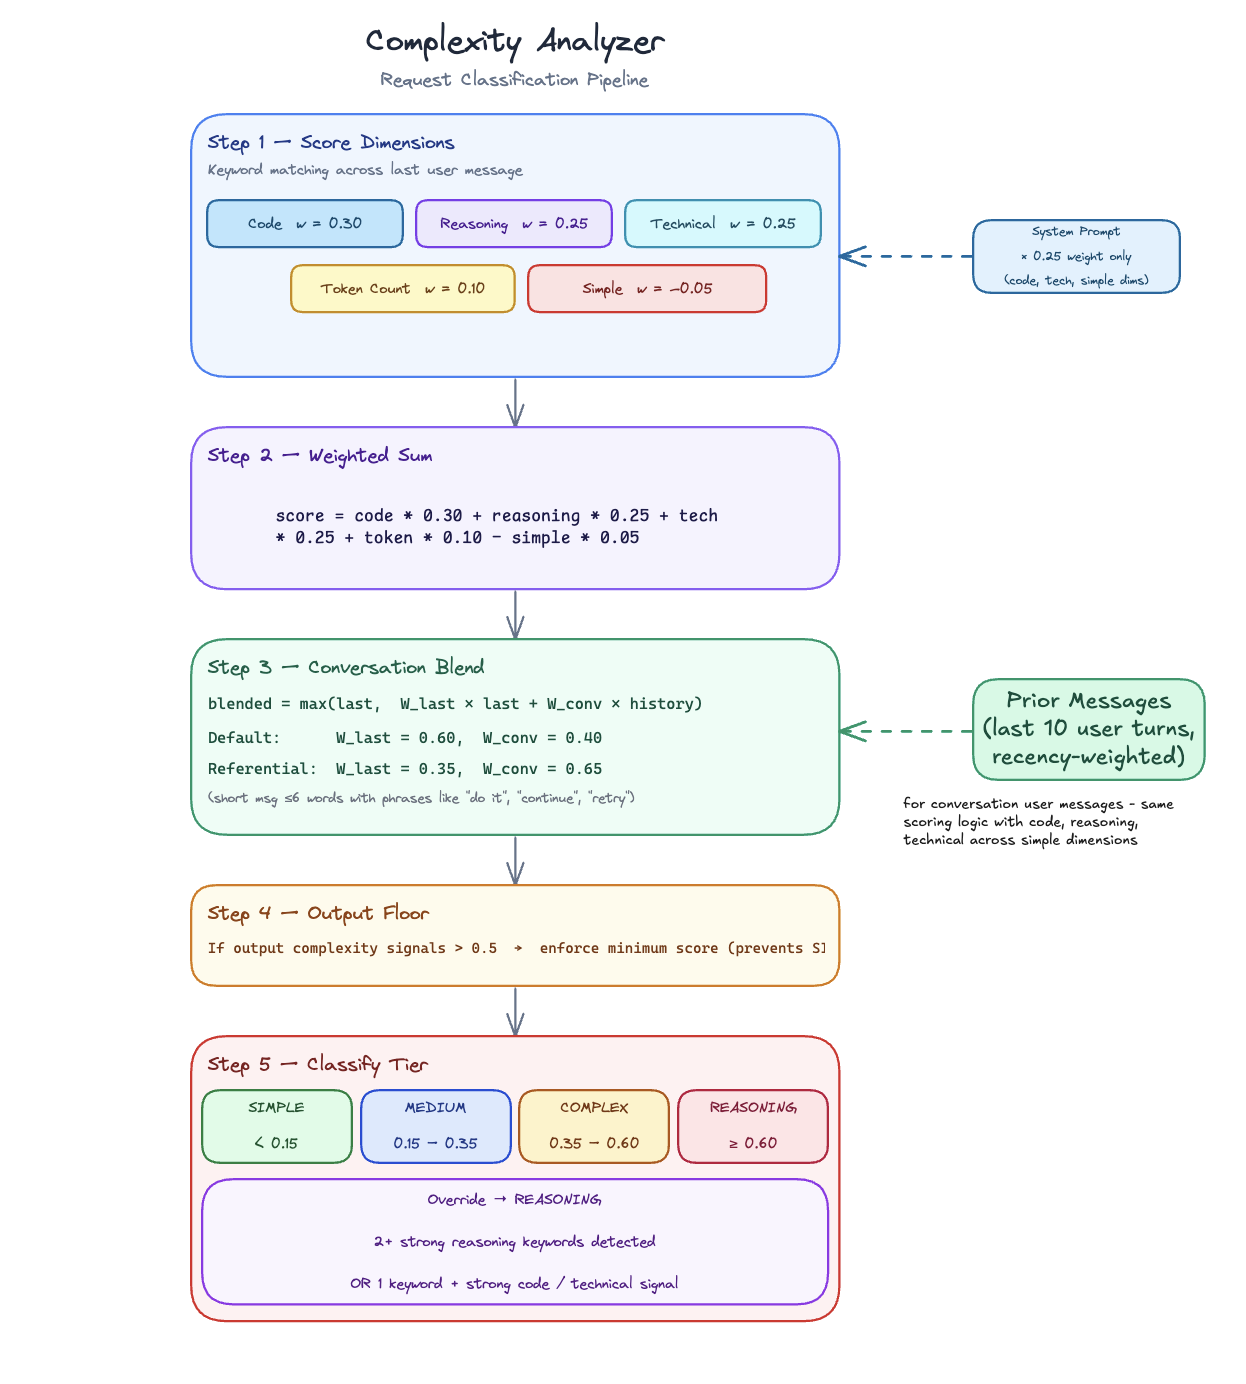
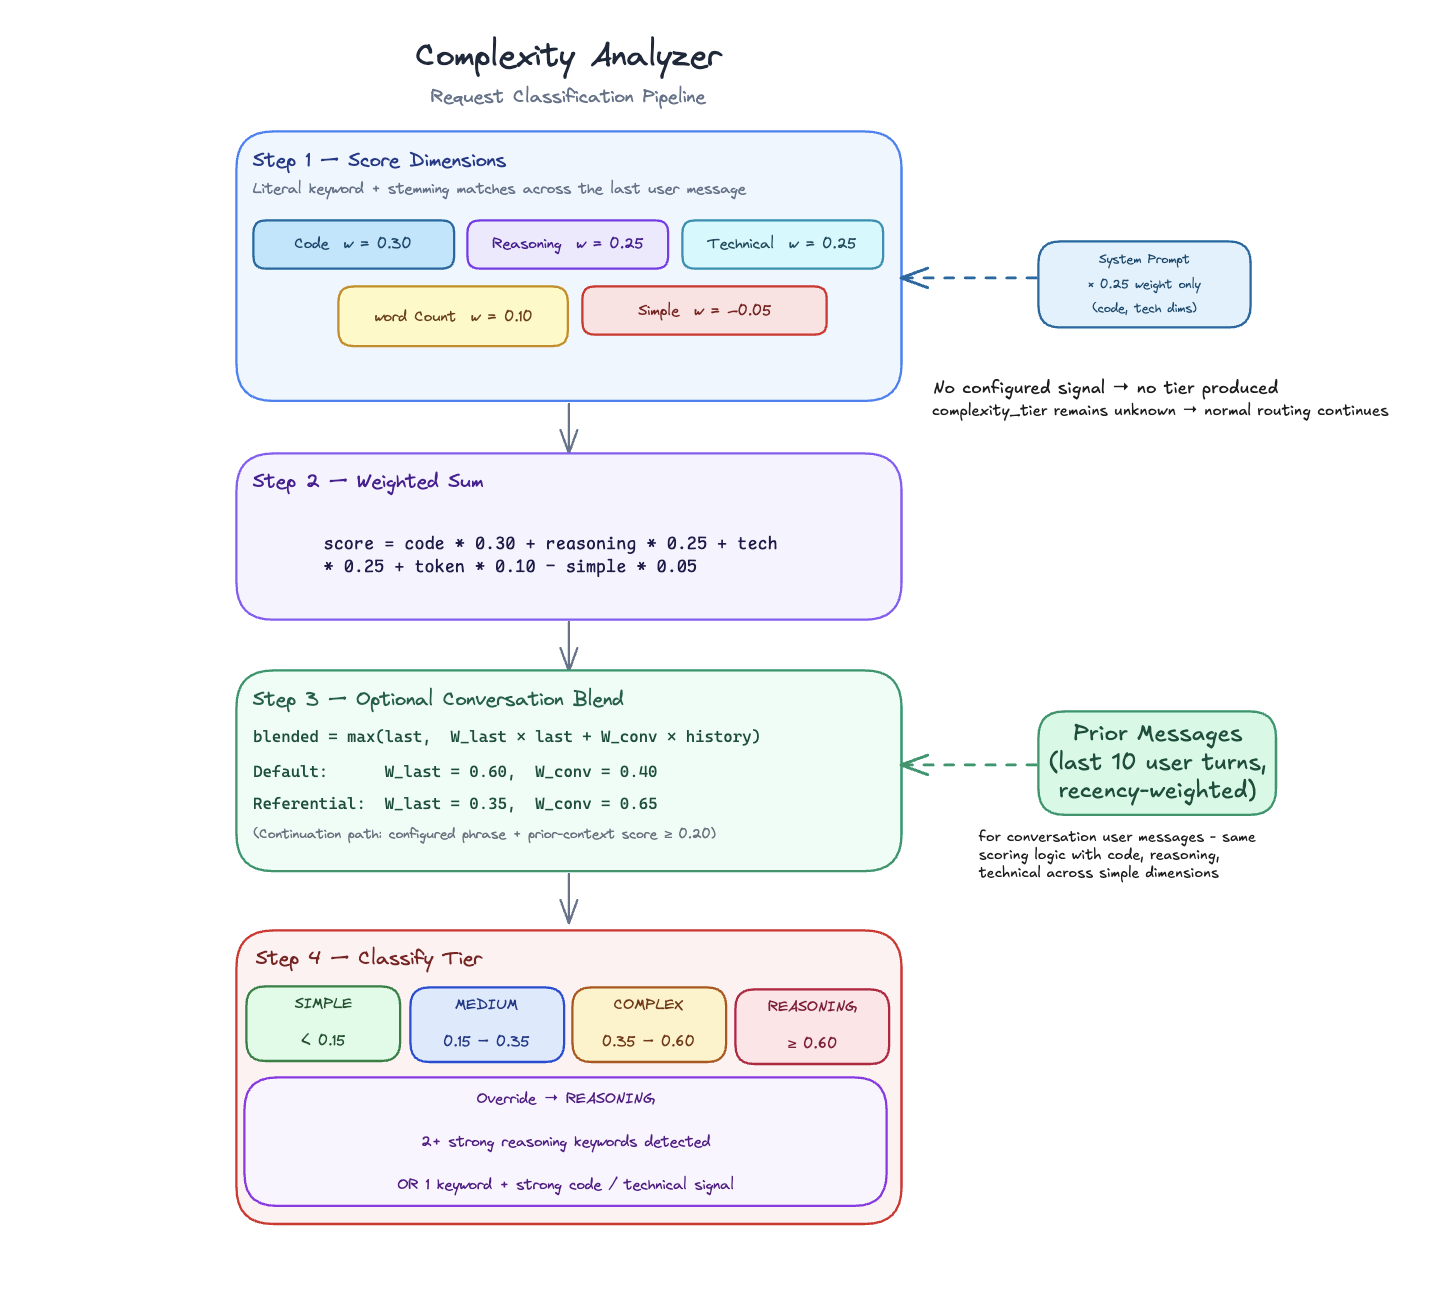
version bump fixes (#5199)
* minor docs changes complexity router (#5172)

## Summary

Briefly explain the purpose of this PR and the problem it solves.

## Changes

- What was changed and why
- Any notable design decisions or trade-offs

## Type of change

- [ ] Bug fix
- [ ] Feature
- [ ] Refactor
- [x] Documentation
- [ ] Chore/CI

## Affected areas

- [ ] Core (Go)
- [ ] Transports (HTTP)
- [ ] Providers/Integrations
- [ ] Plugins
- [ ] UI (React)
- [x] Docs

## How to test

Describe the steps to validate this change. Include commands and expected outcomes.

```sh
# Core/Transports
go version
go test ./...

# UI
cd ui
pnpm i || npm i
pnpm test || npm test
pnpm build || npm run build
```

If adding new configs or environment variables, document them here.

## Screenshots/Recordings

If UI changes, add before/after screenshots or short clips.

## Breaking changes

- [ ] Yes
- [ ] No

If yes, describe impact and migration instructions.

## Related issues

Link related issues and discussions. Example: Closes #123

## Security considerations

Note any security implications (auth, secrets, PII, sandboxing, etc.).

## Checklist

- [ ] I read `docs/contributing/README.md` and followed the guidelines
- [ ] I added/updated tests where appropriate
- [ ] I updated documentation where needed
- [ ] I verified builds succeed (Go and UI)
- [ ] I verified the CI pipeline passes locally if applicable

* patched version bumps

* changelog fixes

---------

diff --git a/transports/changelog.md b/transports/changelog.md
@@ -1,0 +1,87 @@
+## ✨ Features
+
+- **Sarvam AI Provider** - Added Sarvam AI as a first-class provider with chat, text-to-speech, and speech-to-text support (thanks [@Purvi09](https://github.com/Purvi09)!)
+- **ElevenLabs Sound Effects** - Added text-to-sound generation support via `/v1/sound-generation` (thanks [@SecretSun](https://github.com/SecretSun)!)
+- **Bedrock Project Scoping** - Added optional `project_id` to Bedrock and Bedrock Mantle key configs with per-alias overrides for Bedrock, Bedrock Mantle, and Vertex, plus UI support
+- **Trace Redaction** - Phase-scoped redaction and revealing, transient redaction data field for guardrails, and trace content redaction before connector export
+- **Durable Background Jobs** - New `sidekiq` background-job table, store methods, and runner with recovery and reaper; cost recalculation migrated to a durable, resumable job with polling instead of SSE
+- **Audit Log Object Storage** - S3/GCS object storage config schema for audit log archival
+- **Alerting Configuration** - Alerting schema in `config.schema.json` with declarative channels and CEL-based rules, Helm chart support, and enterprise fallback pages
+- **Model Catalog Pricing** - Added pricing data to the model catalog (thanks [@johnbrett](https://github.com/johnbrett)!)
+- **Canonical Model Names** - Dashboard model rankings now show canonical model names instead of inference-profile IDs (thanks [@satyamkrishna](https://github.com/satyamkrishna)!)
+- **OAuth2 Hardening** - Allowlist for private-use redirect URI schemes (RFC 8252 §7.1) and a `shouldSweep` gate on the OAuth2 sweep worker
+- **Mirrored Schema Support** - `schema_url` / `BIFROST_SCHEMA_URL` for mirrored schema locations in isolated deployments
+- **Vertex Single-Region Config** - Enforce single-region configuration in Vertex key config
+- **Helm Chart Updates** - `bifrost.alerting`, audit-log object storage, `postgresql.external.port` string support, and `bifrost.mcp.toolGroups[*].id`
+
+## 🐞 Fixed
+
+- **Governance Rate-Limit Reset CPU** - Guards against invalid reset timeouts, parallelized resting-budget flows only when absolutely required, and fixed the calendar-based alignment qualifier
+- **Masked Key Persistence** - Never persist masked provider key previews to config storage (thanks [@eyeveil](https://github.com/eyeveil)!)
+- **OpenShift Arbitrary UIDs** - Build-time group-0 ownership with no runtime chown (thanks [@eyeveil](https://github.com/eyeveil)!)
+- **Passthrough Virtual Key Attribution** - Passthrough calls via the Azure `api-key` header now attribute to the virtual key (thanks [@eyeveil](https://github.com/eyeveil)!)
+- **Rerank for Custom Providers** - `/v1/rerank` now works with custom OpenAI-compatible providers (thanks [@eyeveil](https://github.com/eyeveil)!)
+- **Responses Stream Usage** - Persist stream usage when providers omit or reuse sequence numbers (thanks [@eyeveil](https://github.com/eyeveil)!)
+- **Wildcard allowed_models Repair** - Repair bare wildcard `allowed_models` rows that broke admin provider updates (thanks [@eyeveil](https://github.com/eyeveil)!)
+- **Streaming Error Panic** - Nil-safe tracing span lookup prevents panics on streaming errors (thanks [@eyeveil](https://github.com/eyeveil)!)
+- **Anthropic Tool ID Sanitization** - Sanitize `tool_use`/`tool_result` ids to Anthropic's charset (thanks [@Shaik-Sirajuddin](https://github.com/Shaik-Sirajuddin)!)
+- **Realtime Transcription Sessions** - Support GA transcription-type sessions in `POST /v1/realtime/client_secrets` (thanks [@Shaik-Sirajuddin](https://github.com/Shaik-Sirajuddin)!)
+- **Diarized Transcription** - Support `diarized_json` segments and ElevenLabs speaker passthrough (thanks [@Shaik-Sirajuddin](https://github.com/Shaik-Sirajuddin)!)
+- **Model Discovery** - Skip disabled keys when scheduling model-discovery fetches (thanks [@Shaik-Sirajuddin](https://github.com/Shaik-Sirajuddin)!)
+- **MCP Timeout Placeholder** - Show the real global default in the MCP tool execution timeout placeholder (thanks [@Shaik-Sirajuddin](https://github.com/Shaik-Sirajuddin)!)
+- **Redacted Thinking Round-Trip** - Round-trip Anthropic `redacted_thinking` blocks on the Responses surface (thanks [@fus3r](https://github.com/fus3r)!)
+- **Streaming Accumulation** - Preserve citation annotations and `finish_reason` in the accumulated streaming response (thanks [@fus3r](https://github.com/fus3r)!)
+- **Gemini Grounded Streaming** - Reset web-search flag when recycling pooled stream state so `web_search_call` items keep emitting (thanks [@fus3r](https://github.com/fus3r)!)
+- **Vertex gs:// Images** - Pass through `gs://` image URLs on Vertex Gemini
+- **Bedrock Truncation Signal** - Signal `max_output_tokens` truncation on the Responses API (thanks [@jeremym-tanium](https://github.com/jeremym-tanium)!)
+- **Bedrock Reasoning Config** - Preserve `reasoning_config` on cross-provider translation so fallbacks keep extended thinking (thanks [@Purvi09](https://github.com/Purvi09)!)
+- **Anthropic tool_search** - Forward and rebuild server-side `tool_search` on the Responses path (thanks [@ws4charlie](https://github.com/ws4charlie)!)
+- **OpenAI Responses Input** - Strip `role` from non-message input items (thanks [@nettee](https://github.com/nettee)!) and serialize compaction request `input` correctly (thanks [@mcclurmc](https://github.com/mcclurmc)!)
+- **additional_tools Support** - Added `additional_tools` message type support, preserving nested tool types on `/v1/responses`
+- **Plugin Stream Errors** - Emit structured plugin stream errors on integration routes (thanks [@jeffhos](https://github.com/jeffhos)!)
+- **Pooled Object Hygiene** - Zero pooled ChannelMessage references on release and sweep orphaned deferred spans in trace store TTL cleanup (thanks [@citrocat](https://github.com/citrocat)!)
+- **Hybrid Log Token Usage** - Rebuild token usage from denormalized columns in hybrid log list (thanks [@G-XD](https://github.com/G-XD)!)
+- **MCP Tool Ordering** - Deterministic MCP tool ordering for prompt cache stability
+- **MCP Inline-Auth Links** - Warn callers not to truncate the `#t=` temp-token fragment (thanks [@MarcusPeng](https://github.com/MarcusPeng)!)
+- **Gemini Fixes** - Web search options map to Google Search grounding, file upload MIME types preserved, and video reference fields map to instances (thanks [@vojthor](https://github.com/vojthor)!)
+- **OpenAI Parameters** - Honor service tier in chat completion and cap max reasoning effort
+- **Anthropic Costing** - Correct inference geo cost and cache rate for fast mode
+- **SecretVar Parsing** - Parse `SecretVar` JSON with `ref`/`env_var` fields even when `value` is absent
+- **Telemetry** - Forward request id and trace id, reduce metrics cardinality explosion risk, and send status codes on OTEL metrics
+- **Dashboard** - Preserve active time period when applying dimension filters, adjust bucket size thresholds for month-range durations, show user popover with `preferred_username` fallback, and filter provider-level keys from the prompt manager selector (thanks [@rlex](https://github.com/rlex)!)
+- **API Key Provider Selection** - Fixed provider selection for API keys
+- **Azure Auth Headers** - Pass Azure auth headers in helpers
+- **Stream Delta Schema** - Added `ExtraContent` to `ChatStreamResponseChoiceDelta` (thanks [@nghodkicisco](https://github.com/nghodkicisco)!)
+
+## 🐙 Closed GitHub Issues
+
+- [#2347](https://github.com/maximhq/bifrost/issues/2347) - MCP tool ordering is non-deterministic, breaking prefix-based prompt caching
+- [#3455](https://github.com/maximhq/bifrost/issues/3455) - Segfault/nil dereference panic in Bedrock provider
+- [#4318](https://github.com/maximhq/bifrost/issues/4318) - allowed_models persisted as bare "*" string blocks subsequent provider updates
+- [#4353](https://github.com/maximhq/bifrost/issues/4353) - config.db corruption from masked-key preview in provider_configs JSON column
+- [#4367](https://github.com/maximhq/bifrost/issues/4367) - Image incompatible with OpenShift arbitrary UIDs
+- [#4402](https://github.com/maximhq/bifrost/issues/4402) - Vertex provider drops image blocks whose URL uses gs:// scheme
+- [#4477](https://github.com/maximhq/bifrost/issues/4477) - Passthrough calls using a Virtual Key log as actual key
+- [#4679](https://github.com/maximhq/bifrost/issues/4679) - Bedrock Responses API does not signal max_output_tokens truncation
+- [#4689](https://github.com/maximhq/bifrost/issues/4689) - Custom providers cannot set budget
+- [#4712](https://github.com/maximhq/bifrost/issues/4712) - ElevenLabs sound effects (/v1/sound-generation)
+- [#4780](https://github.com/maximhq/bifrost/issues/4780) - Anthropic server-side tool_search results are dropped on /v1/responses
+- [#4834](https://github.com/maximhq/bifrost/issues/4834) - /v1/rerank is not available with custom providers
+- [#4846](https://github.com/maximhq/bifrost/issues/4846) - Responses stream usage present in response.completed but not persisted in LLM Logs
+- [#4851](https://github.com/maximhq/bifrost/issues/4851) - Governance rate-limit reset causes high CPU in BumpRateLimitUsage
+- [#4870](https://github.com/maximhq/bifrost/issues/4870) - Pooled ChannelMessage retains request body, context, and undelivered response while idle
+- [#4940](https://github.com/maximhq/bifrost/issues/4940) - Show canonical model names instead of Bedrock inference-profile IDs in Model Rankings
+- [#4963](https://github.com/maximhq/bifrost/issues/4963) - Streaming finish_reason dropped from the accumulated (logged) response
+- [#5002](https://github.com/maximhq/bifrost/issues/5002) - gpt-4o-transcribe-diarize transcription fails due to string segment IDs
+- [#5013](https://github.com/maximhq/bifrost/issues/5013) - OpenAI /responses/compact input serialized as a JSON object causing 400
+- [#5027](https://github.com/maximhq/bifrost/issues/5027) - MCP Tool Execution Timeout placeholder shows 0 instead of real global default
+- [#5036](https://github.com/maximhq/bifrost/issues/5036) - Plugin StreamInterceptionError is flattened on integration routes
+- [#5037](https://github.com/maximhq/bifrost/issues/5037) - Disabled keys break provider model discovery
+- [#5051](https://github.com/maximhq/bifrost/issues/5051) - Add Sarvam AI provider (chat + TTS/STT)
+- [#5061](https://github.com/maximhq/bifrost/issues/5061) - Streaming responses drop citation annotations from the accumulated message
+- [#5093](https://github.com/maximhq/bifrost/issues/5093) - Streaming /v1/responses drops Anthropic redacted_thinking blocks
+- [#5097](https://github.com/maximhq/bifrost/issues/5097) - Anthropic rejects replayed tool_use/tool_result ids from non-conforming upstream providers
+- [#5100](https://github.com/maximhq/bifrost/issues/5100) - additional_tools loses nested tool types on /v1/responses
+- [#5101](https://github.com/maximhq/bifrost/issues/5101) - Chat-to-Responses tool replay sends role on function_call input items
+- [#5108](https://github.com/maximhq/bifrost/issues/5108) - Bedrock reasoning_config silently dropped on cross-provider translation
+- [#5113](https://github.com/maximhq/bifrost/issues/5113) - Gemini/Vertex streaming stops emitting web_search_call items after first grounded request

diff --git a/framework/changelog.md b/framework/changelog.md
@@ -1,0 +1,16 @@
+- feat: add durable background-job `sidekiq` table, store methods, and runner with recovery and reaper
+- feat: pass created-by user ID and runner ID through sidekiq job lifecycle, add `GetInFlightSidekiqJobByKind` to config store interface
+- feat: show canonical model names in dashboard model rankings (thanks [@satyamkrishna](https://github.com/satyamkrishna)!)
+- feat: redact trace content before connector export with transient redaction data field
+- feat: force single-region config in Vertex key config
+- fix: persist Responses stream usage when providers omit or reuse sequence numbers (thanks [@eyeveil](https://github.com/eyeveil)!)
+- fix: fold streamed output_text.annotation.added events into the accumulated responses message so citations survive in logging, observability, and cache (thanks [@fus3r](https://github.com/fus3r)!)
+- fix: keep the streaming finish_reason in the accumulated response when a provider forwards it on a content chunk (thanks [@fus3r](https://github.com/fus3r)!)
+- fix: sweep orphaned deferred spans in trace store TTL cleanup (thanks [@citrocat](https://github.com/citrocat)!)
+- fix: rebuild token usage from denormalized columns in hybrid log list (thanks [@G-XD](https://github.com/G-XD)!)
+- fix: repair bare wildcard allowed_models rows that break admin provider updates (thanks [@eyeveil](https://github.com/eyeveil)!)
+- fix: use AutoMigrate and add `runner_id`/`created_by_user_id` columns to sidekiq table migration
+- fix: match model filter on canonical_model_name and restore routing info for cost recalculation
+- fix: forward ScopedDB from HybridLogStore
+- fix: race conditions in tracer span locks
+- chore: upgrade ClickHouse client library

diff --git a/plugins/governance/changelog.md b/plugins/governance/changelog.md
@@ -1,0 +1,5 @@
+- fix: parallelize resting-budget flows only when absolutely required to reduce lock contention
+- fix: add guards against invalid rate-limit reset timeouts
+- fix: calendar-based alignment qualifier for budget periods
+- fix: attribute passthrough virtual keys sent via Azure api-key header (thanks [@eyeveil](https://github.com/eyeveil)!)
+- chore: upgraded core to v1.7.1 and framework to v1.5.1

diff --git a/plugins/logging/changelog.md b/plugins/logging/changelog.md
@@ -1,0 +1,4 @@
+- feat: migrate cost recalculation to durable background sidekiq job with resume and dedup
+- feat: redact trace content before connector export
+- fix: match model filter on canonical_model_name and restore routing info for cost recalculation
+- chore: upgraded core to v1.7.1 and framework to v1.5.1

diff --git a/plugins/telemetry/changelog.md b/plugins/telemetry/changelog.md
@@ -1,0 +1,4 @@
+- feat: add missing connector attributes
+- fix: reduce metrics cardinality explosion risk
+- fix: forward request id and trace id through telemetry
+- chore: upgraded core to v1.7.1 and framework to v1.5.1

diff --git a/plugins/otel/changelog.md b/plugins/otel/changelog.md
@@ -1,0 +1,2 @@
+- fix: send status code on OTEL metrics
+- chore: upgraded core to v1.7.1 and framework to v1.5.1

diff --git a/plugins/compat/changelog.md b/plugins/compat/changelog.md
@@ -1,0 +1,1 @@
+- chore: upgraded core to v1.7.1 and framework to v1.5.1

diff --git a/plugins/jsonparser/changelog.md b/plugins/jsonparser/changelog.md
@@ -1,0 +1,1 @@
+- chore: upgraded core to v1.7.1 and framework to v1.5.1

diff --git a/plugins/maxim/changelog.md b/plugins/maxim/changelog.md
@@ -1,0 +1,1 @@
+- chore: upgraded core to v1.7.1 and framework to v1.5.1

diff --git a/plugins/mocker/changelog.md b/plugins/mocker/changelog.md
@@ -1,0 +1,1 @@
+- chore: upgraded core to v1.7.1 and framework to v1.5.1

diff --git a/plugins/modelcatalogresolver/changelog.md b/plugins/modelcatalogresolver/changelog.md
@@ -1,0 +1,1 @@
+- chore: upgraded core to v1.7.1 and framework to v1.5.1

diff --git a/plugins/prompts/changelog.md b/plugins/prompts/changelog.md
@@ -1,0 +1,1 @@
+- chore: upgraded core to v1.7.1 and framework to v1.5.1